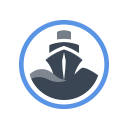
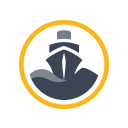
update status colors with codeship status colors.
also, update the stopped-build icon.

Changed region(s): [[0.125, 0.1562, 0.875, 0.875]]

diff --git a/app/js/util/background.js b/app/js/util/background.js
@@ -87,7 +87,10 @@ var Background = function() {
 
     getShipscopeSummary = function() {
       var STATUS_COLORS = [
-        '#ff7f00', '#0b0', '#f00', '#00f'
+        '#feb71a',    // stopped
+        '#60cc69',    // success
+        '#fe402c',    // error
+        '#5a95e5'     // testing
       ]
 
       var status = projects.getSummary()

diff --git a/app/css/shipscope.css b/app/css/shipscope.css
@@ -157,3 +157,18 @@ span.glyphicon-repeat.alert-info {
   }
 }
 
+.alert-warning {
+  background-color: #feb71a;
+}
+
+.alert-success {
+  background-color: #60cc69;
+}
+
+.alert-danger {
+  background-color: #fe402c;
+}
+
+.alert-info {
+  background-color: #5a95e5;
+}
